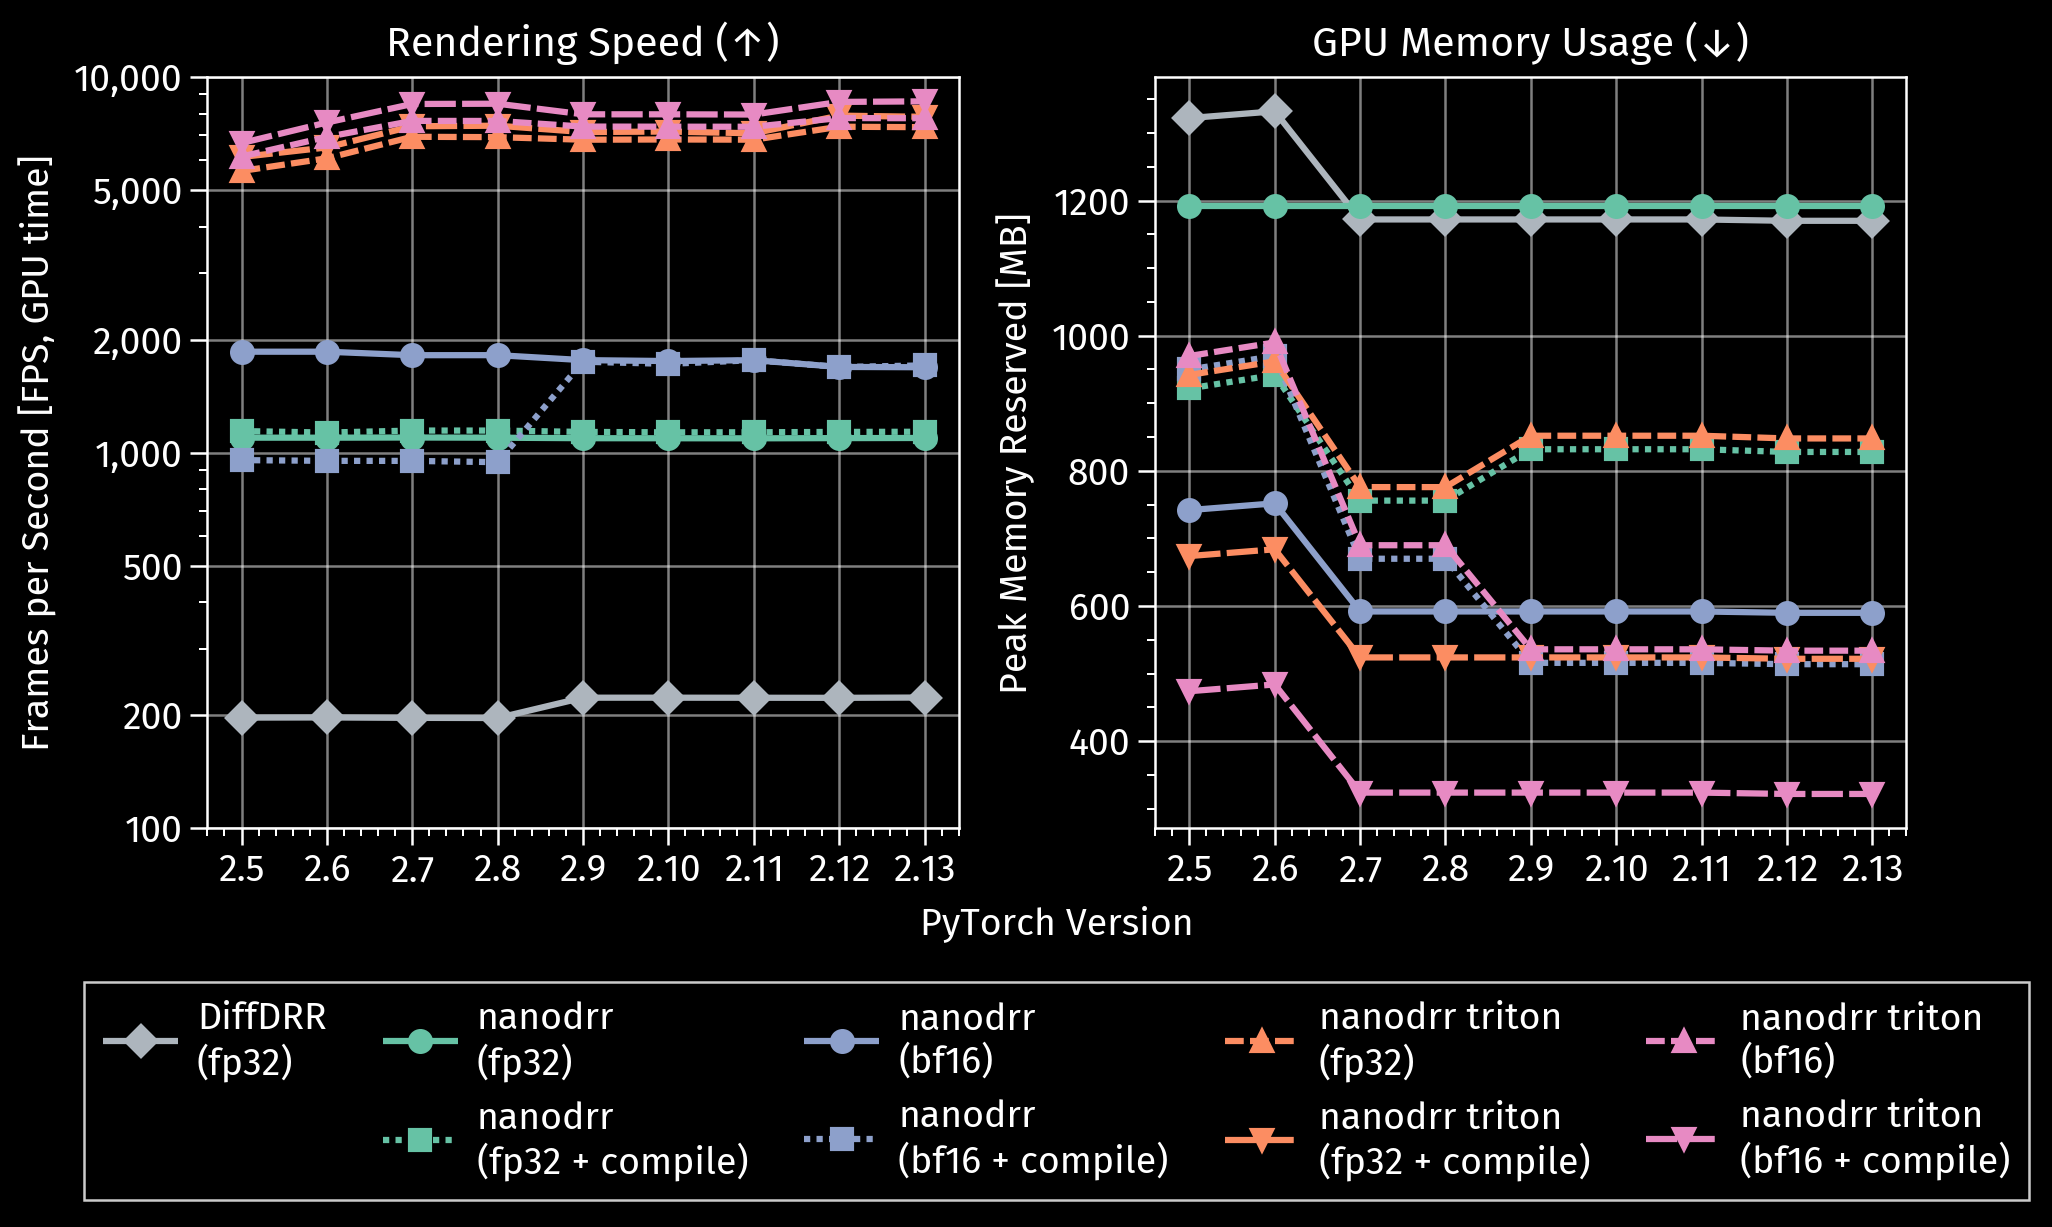
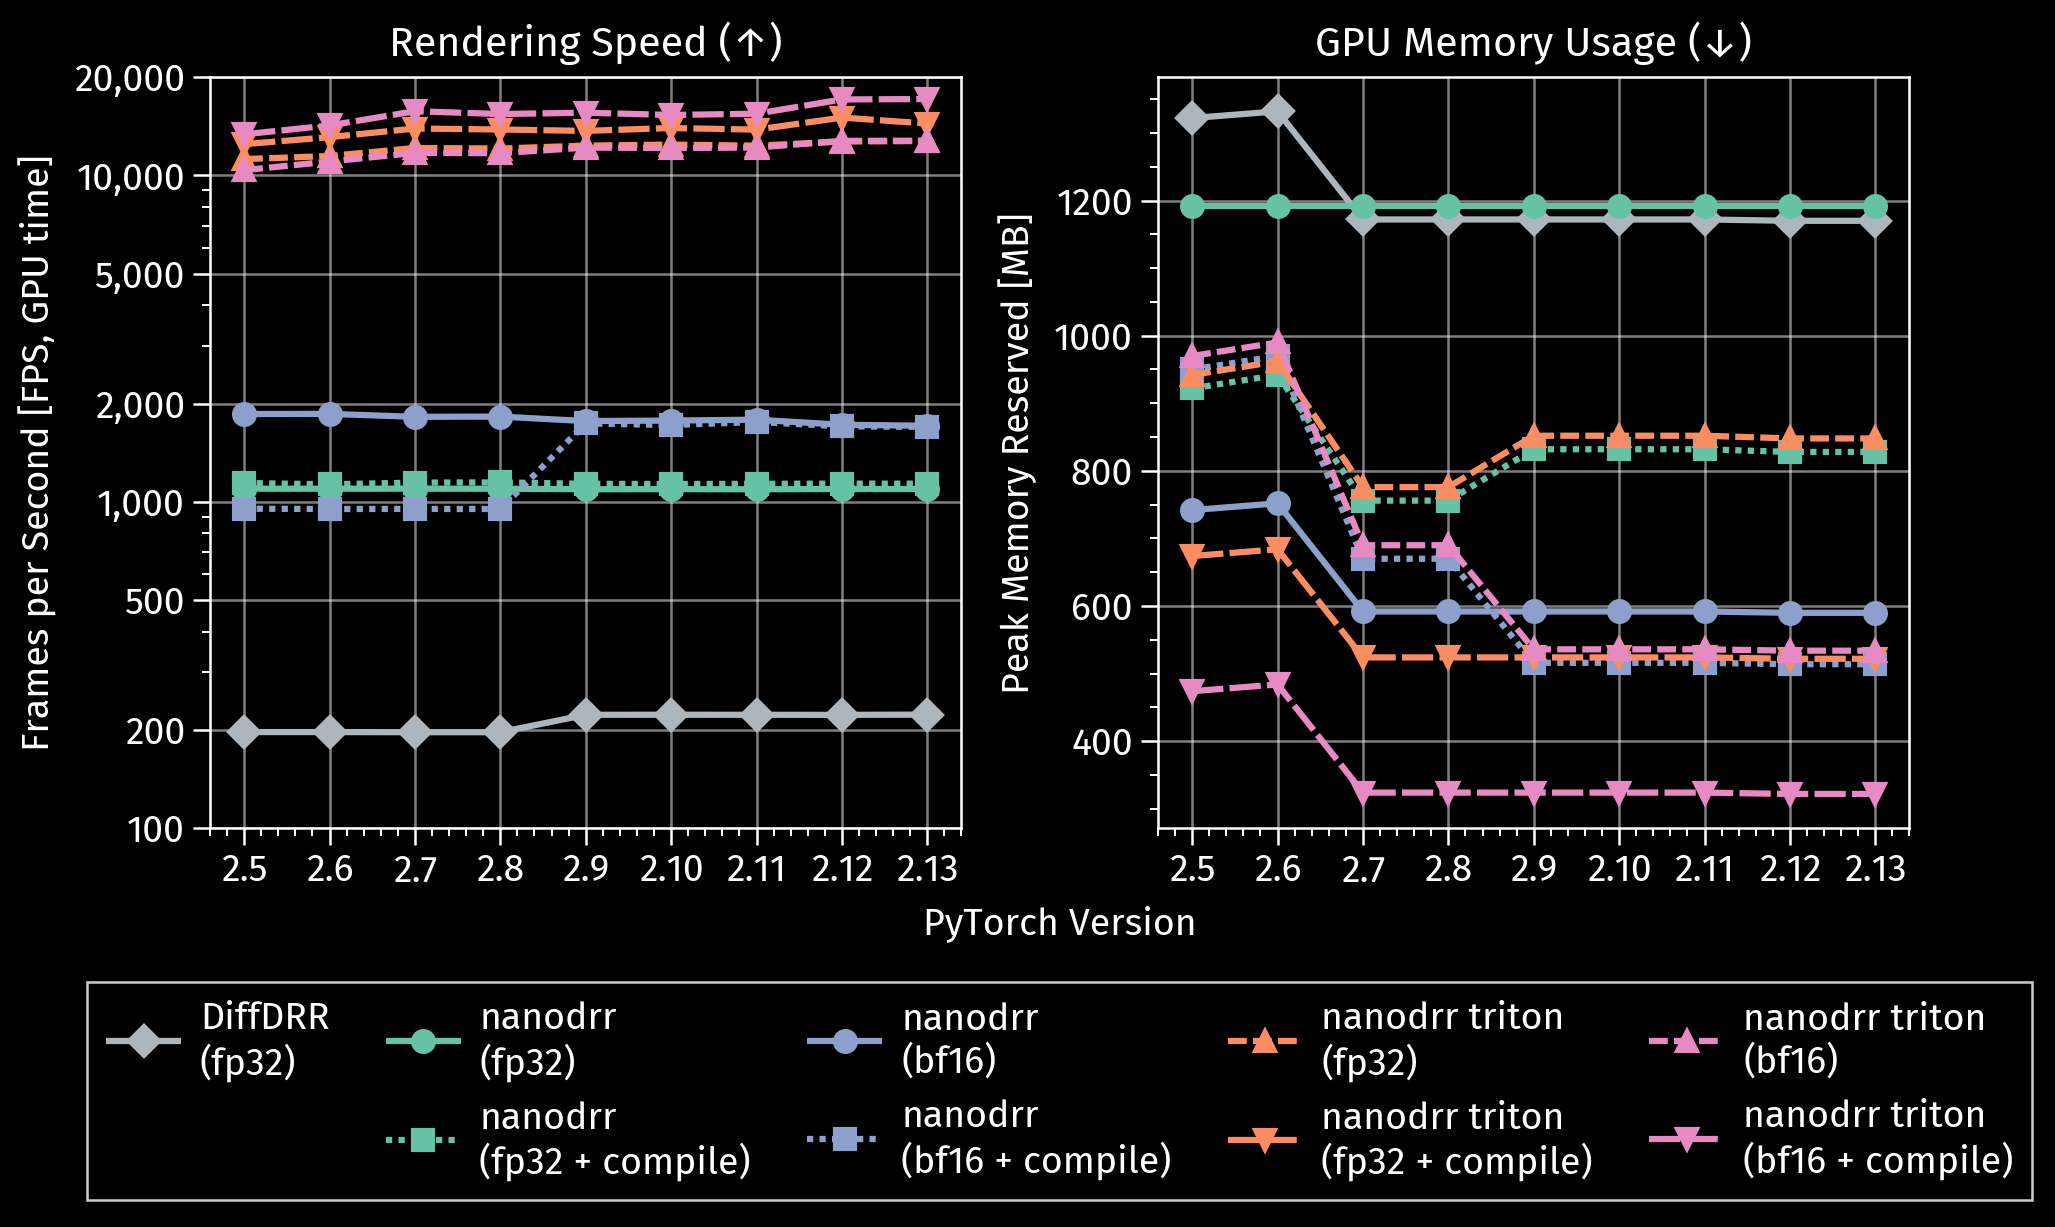
Rerun benchmarks

diff --git a/tests/benchmark/plot.py b/tests/benchmark/plot.py
@@ -102,9 +102,9 @@ def plot(df: pd.DataFrame, output: str) -> None:
             title="Rendering Speed (↑)",
             ylabel="Frames per Second [FPS, GPU time]",
             yscale="log",
-            ylim=(100, 10000),
-            yticks=[100, 200, 500, 1000, 2000, 5000, 10000],
-            yticklabels=["100", "200", "500", "1,000", "2,000", "5,000", "10,000"],
+            ylim=(100, 20000),
+            yticks=[100, 200, 500, 1000, 2000, 5000, 10000, 20000],
+            yticklabels=["100", "200", "500", "1,000", "2,000", "5,000", "10,000", "20,000"],
             ytickminor=False,
             xlabel="PyTorch Version",
             xticks=x,

diff --git a/README.md b/README.md
@@ -7,7 +7,7 @@
 A performance-oriented reimplementation of [`DiffDRR`](https://github.com/eigenvivek/DiffDRR) with the following improvements:
 
 - Optimized, pure PyTorch implementation (**~5× faster than `DiffDRR` at baseline**)
-- Fused Triton rendering kernel, used by default on CUDA (**up to ~40× faster than `DiffDRR`**)
+- Fused Triton rendering kernel, used by default on CUDA (**up to ~80× faster than `DiffDRR`**)
 - Modular design (freely swap subjects, extrinsics, and intrinsics during rendering)
 - Compatibility with `torch.compile` and mixed precision
 - Extensive type hints with `jaxtyping`
@@ -36,9 +36,9 @@ pip install "nanodrr[all]"    # All extras
 ## Benchmarks
 
 > [!IMPORTANT]
-> - **~5× faster** than [`DiffDRR`](https://github.com/eigenvivek/DiffDRR) with the pure PyTorch backend (1,094 FPS vs 223 FPS)
-> - **~33× faster** with the fused Triton kernel, without compilation (7,358 FPS vs 223 FPS)
-> - **~39× faster** with `torch.compile` and `bfloat16` (8,622 FPS vs 223 FPS)
+> - **~5× faster** than [`DiffDRR`](https://github.com/eigenvivek/DiffDRR) with the pure PyTorch backend (1,093 FPS vs 223 FPS)
+> - **~57× faster** with the fused Triton kernel, without compilation (12,600 FPS vs 223 FPS)
+> - **~80× faster** with `torch.compile` and `bfloat16` (17,820 FPS vs 223 FPS)
 > - **~3.5× less memory** than `DiffDRR` (322 MB vs 1,170 MB peak reserved with `bfloat16` + compile)
 
 <picture>
